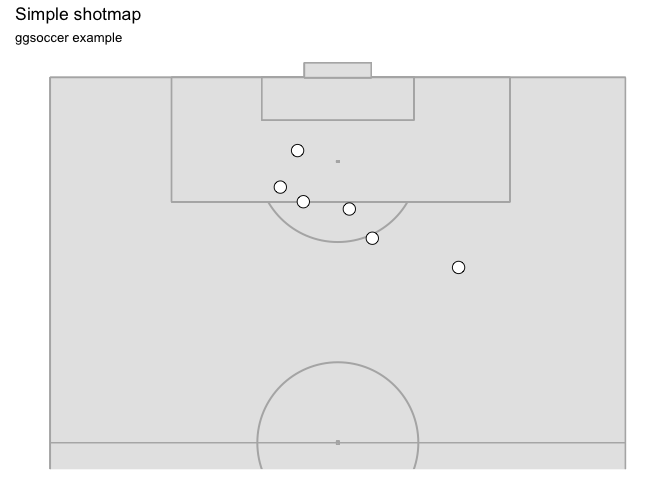
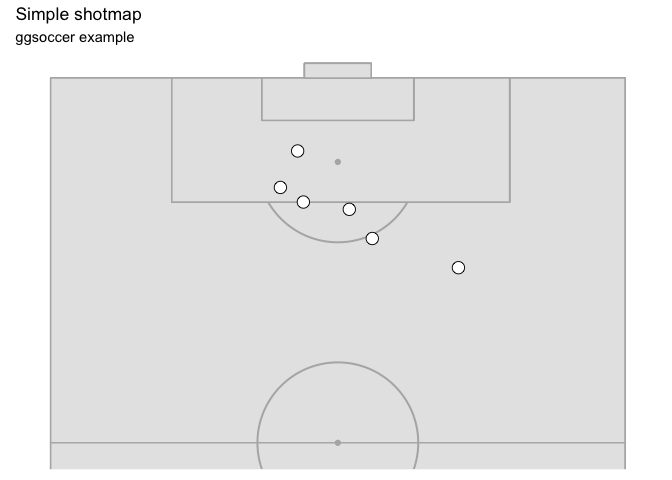
Make pitch dots actual dots
Closes #6

diff --git a/README.md b/README.md
@@ -92,7 +92,7 @@ ggplot(shots_rescaled) +
           "ggsoccer example (120x80 co-ordinates)")
 ```
 
-![](man/figures/README-unnamed-chunk-3-1.png)
+![](man/figures/README-example_sb-1.png)
 
 Other options
 -------------
